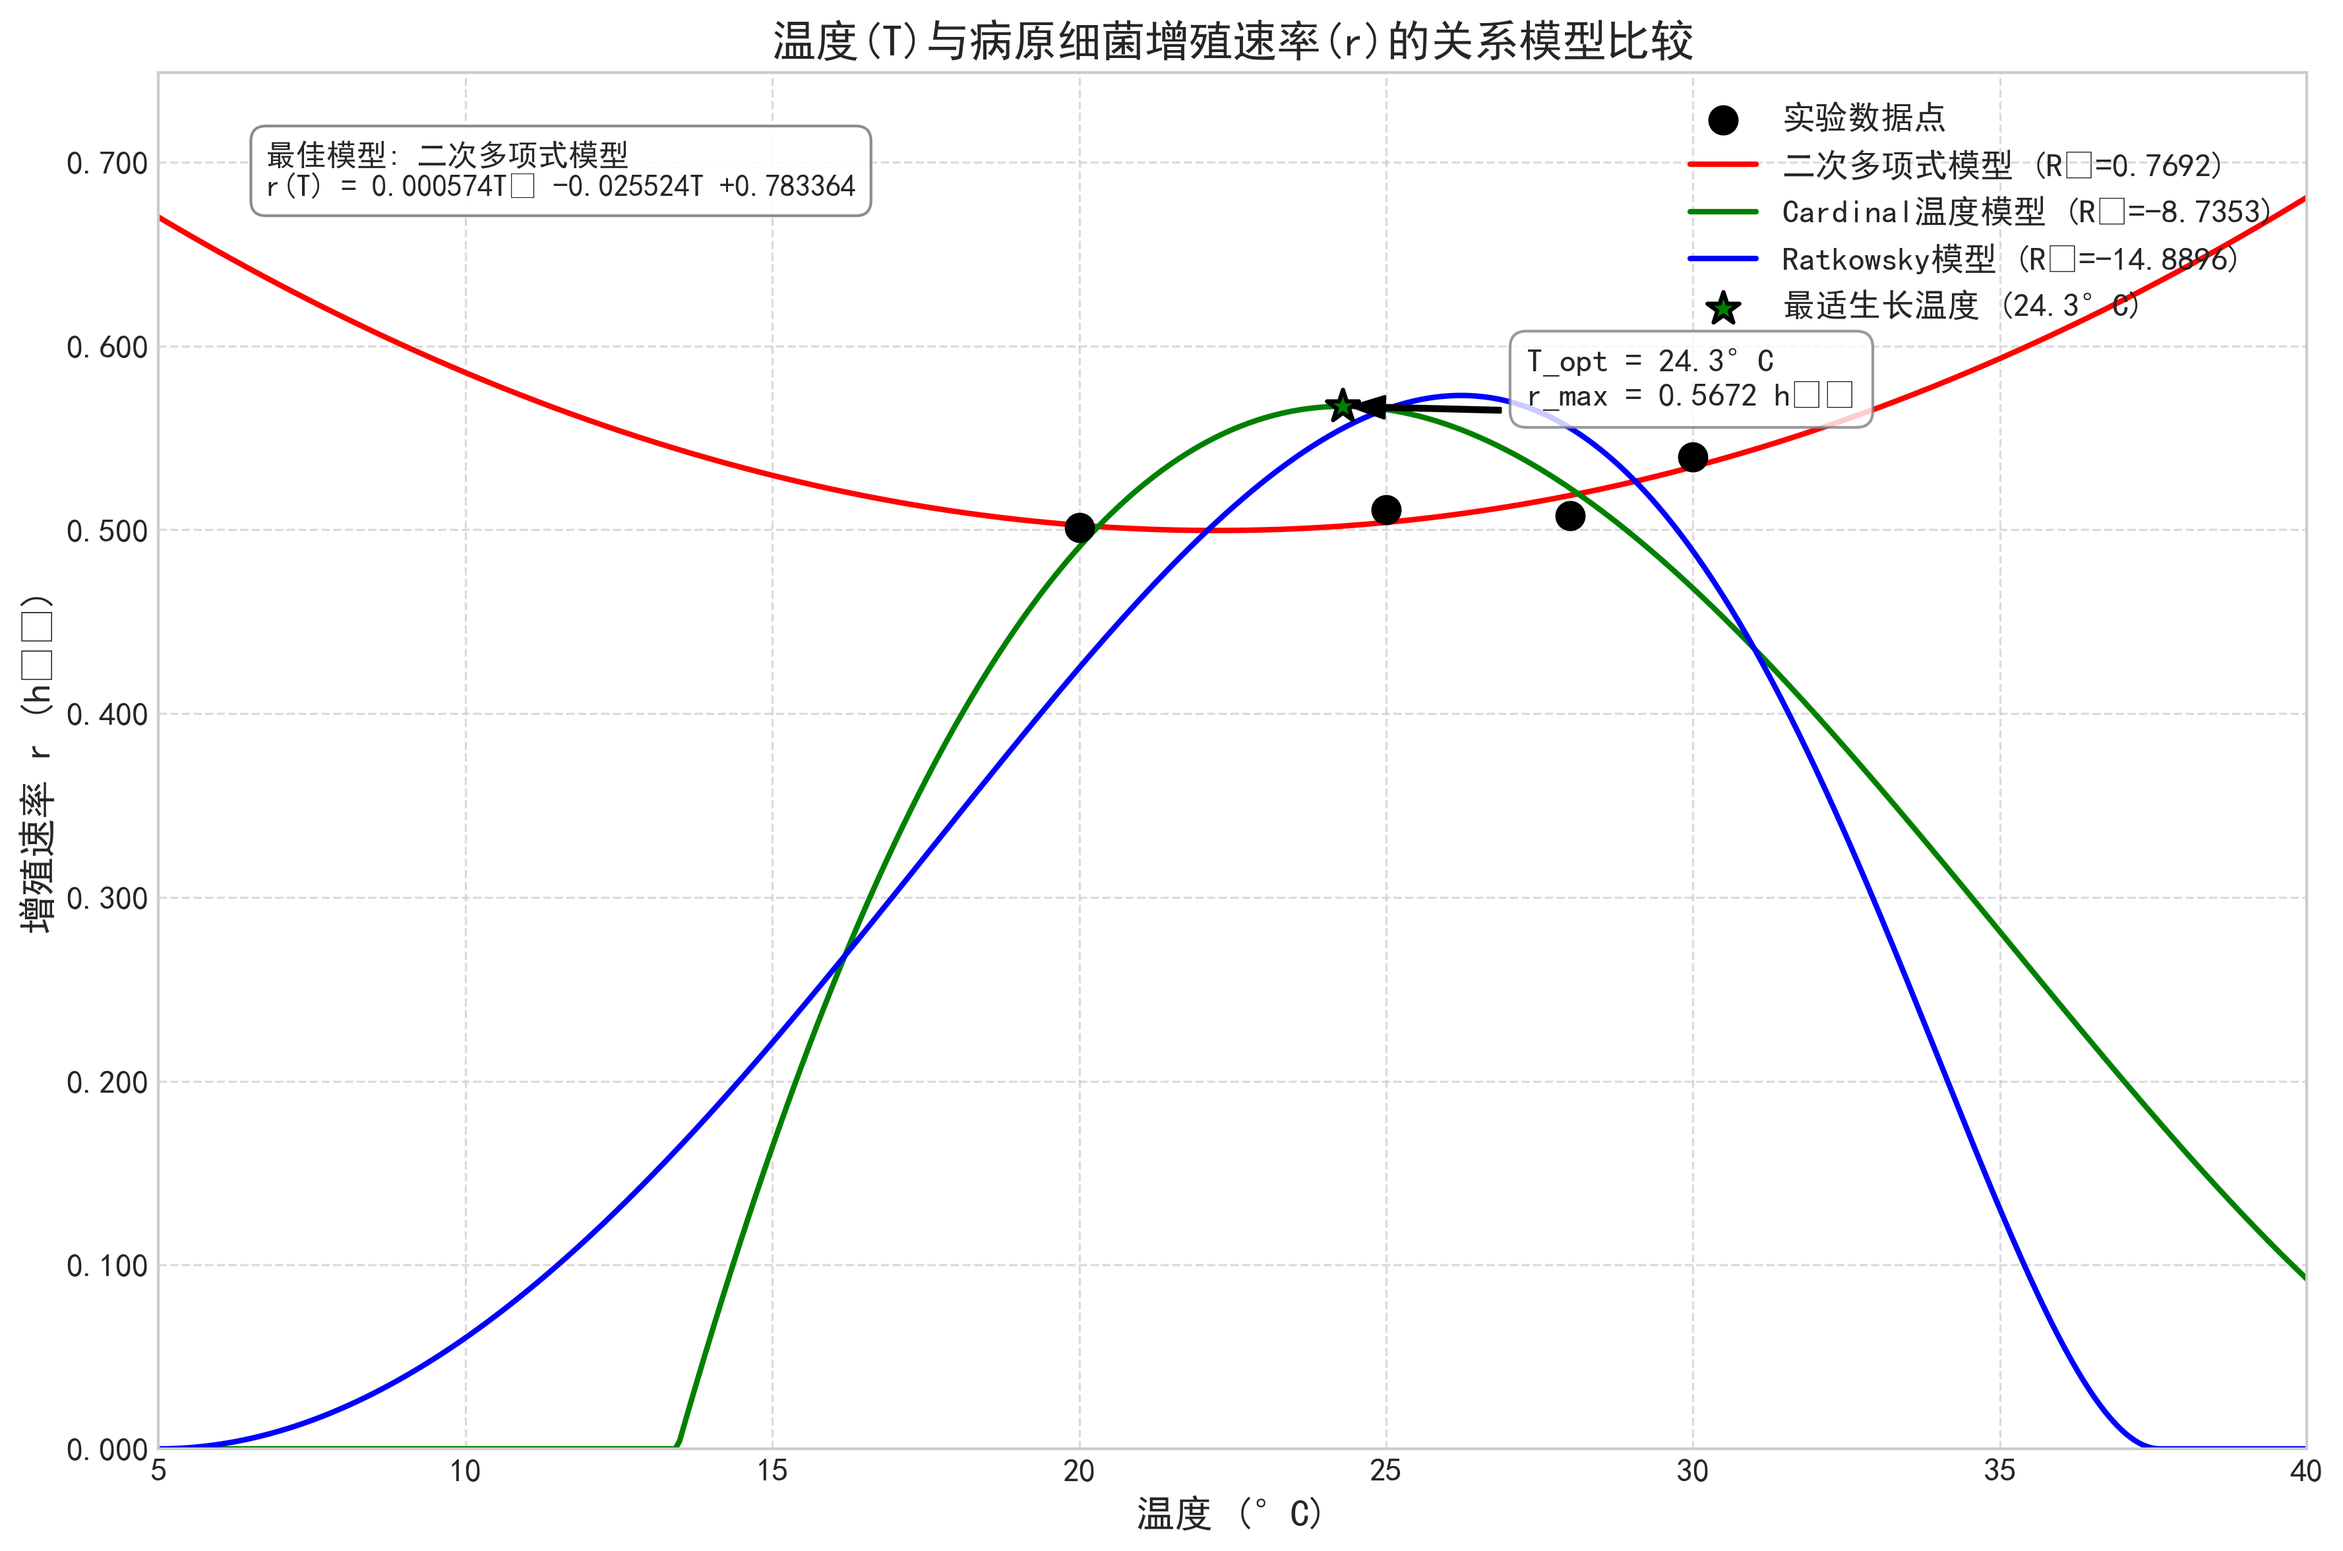
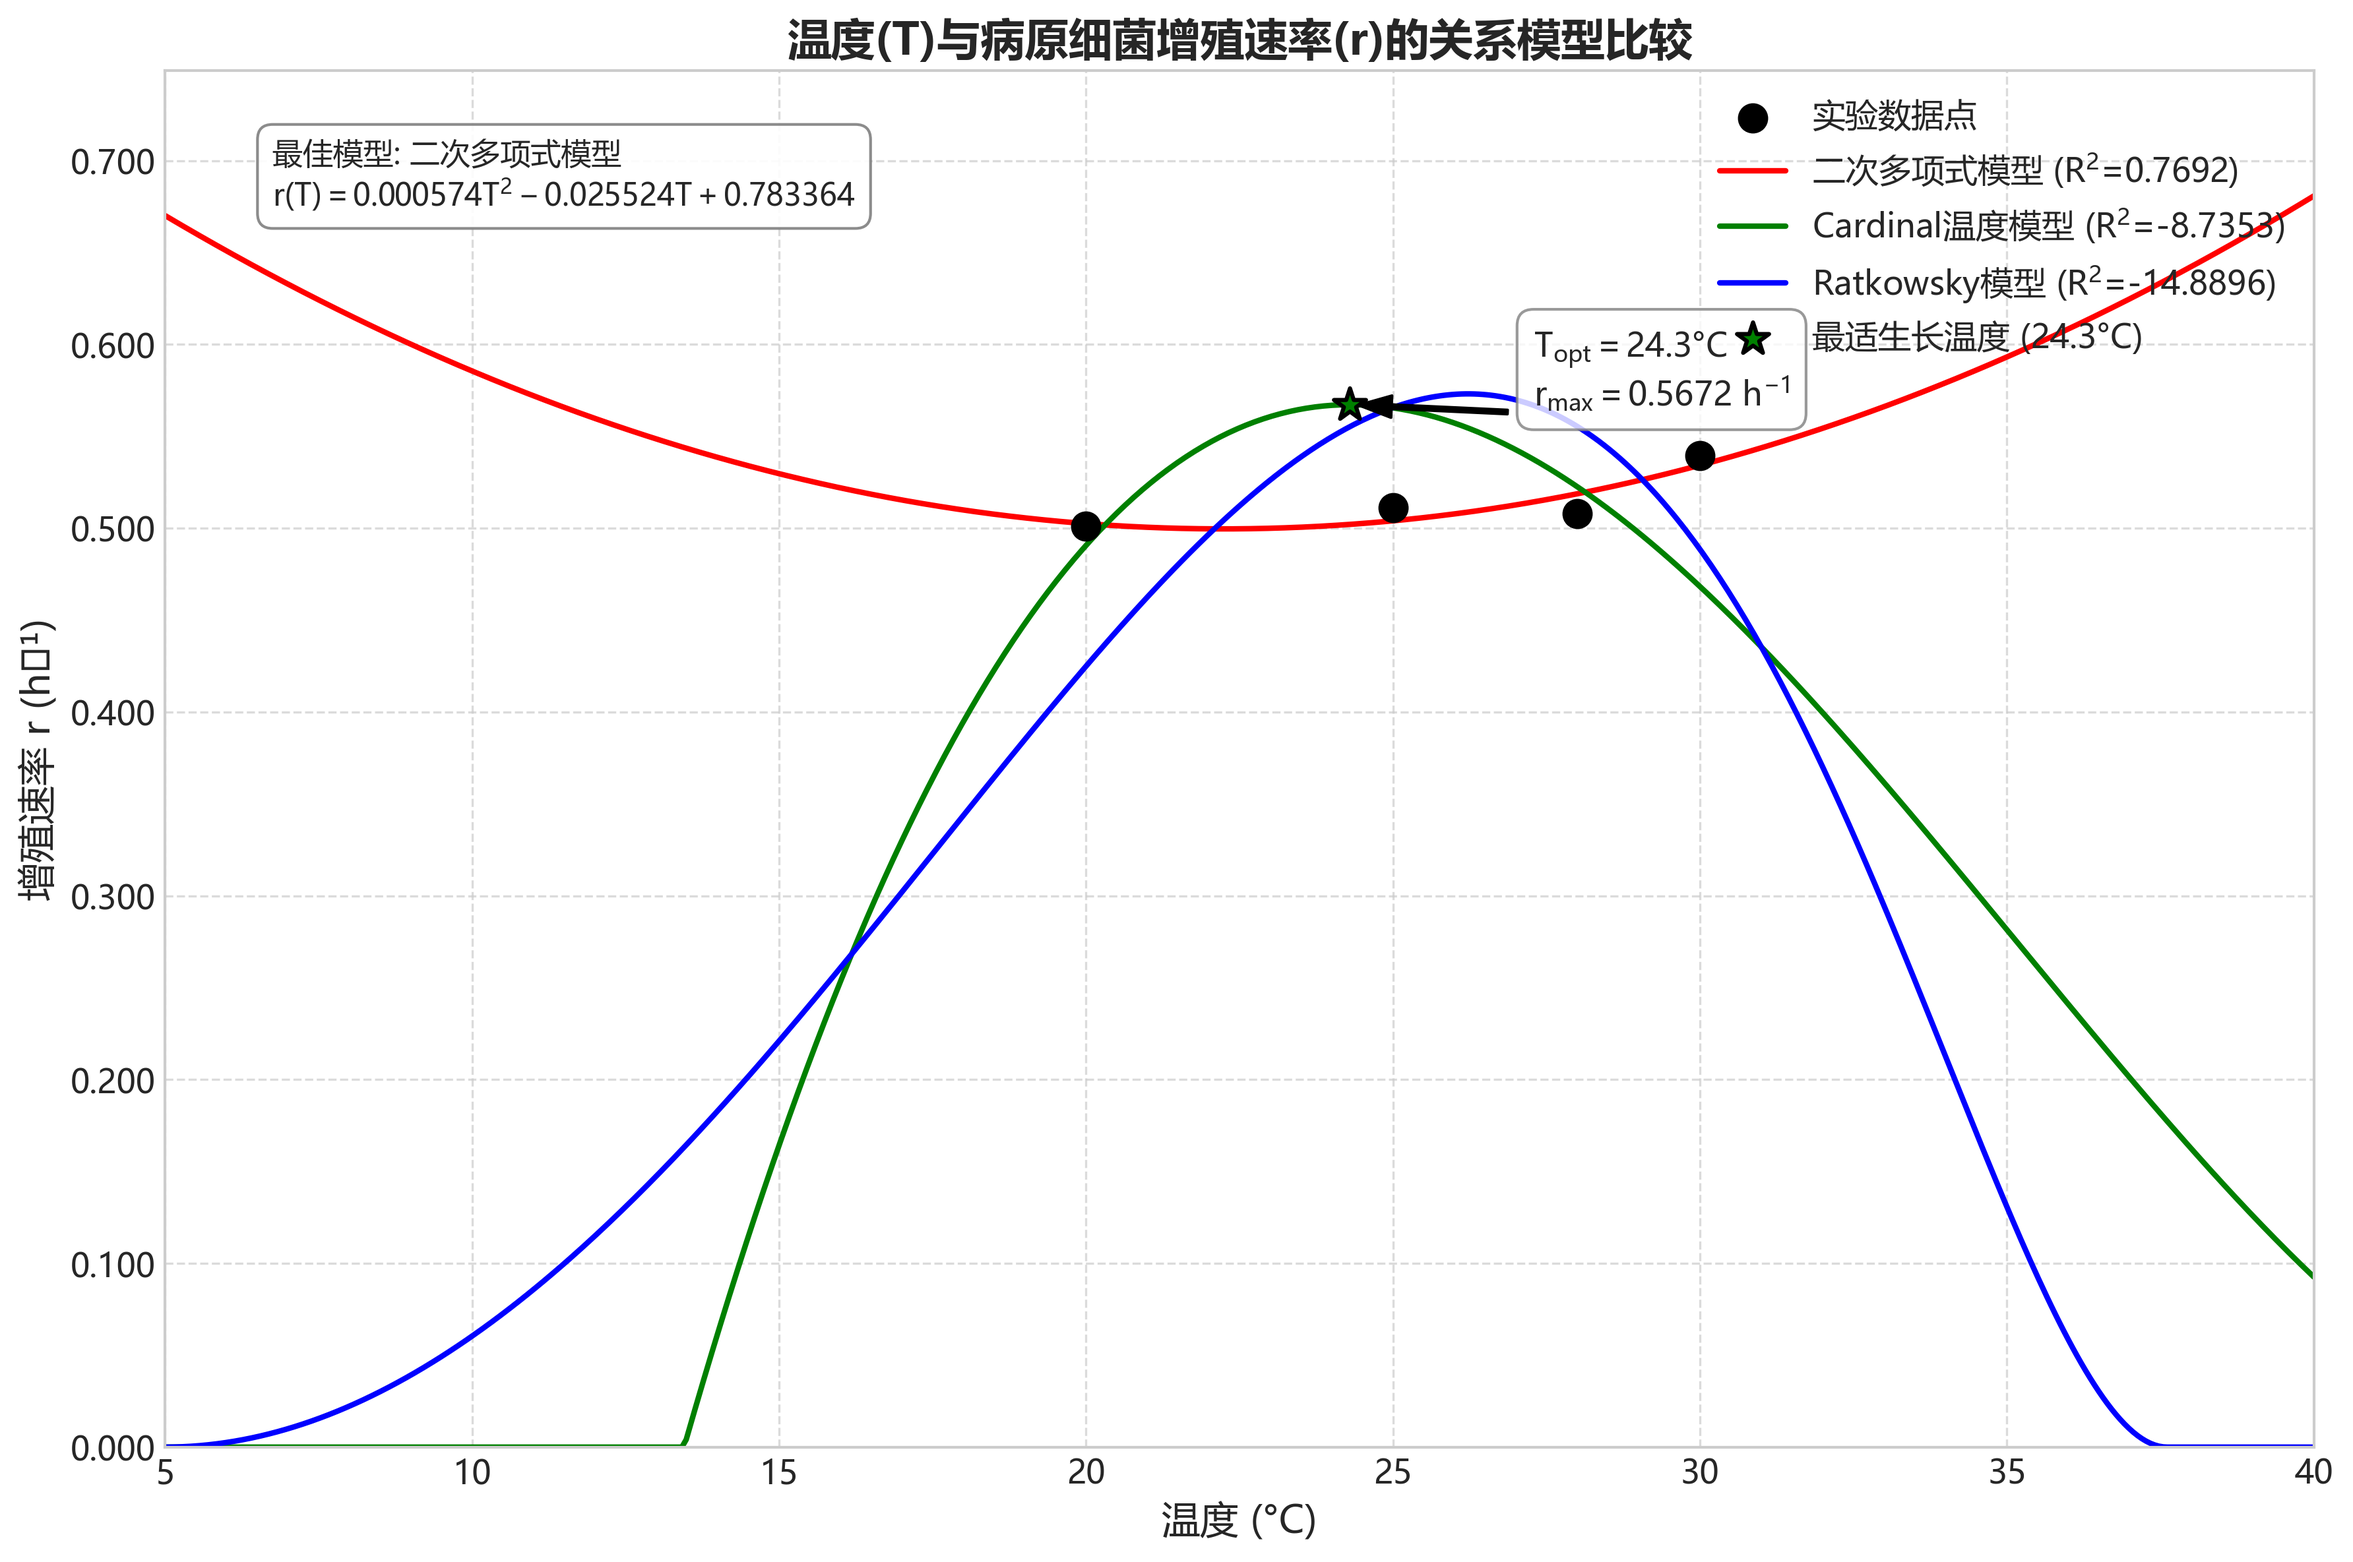
same

diff --git a/第一题第二问/bacterial_growth.py b/第一题第二问/bacterial_growth.py
@@ -386,11 +386,11 @@ ax.scatter(temps, growth_rates, color='black', s=100, marker='o',
 
 # 绘制模型曲线
 ax.plot(fine_temps, quadratic_rates, 'r-', linewidth=2, 
-       label=f'二次多项式模型 (R²={quadratic_r2:.4f})')
+       label=rf'二次多项式模型 ($R^2$={quadratic_r2:.4f})')
 ax.plot(fine_temps, cardinal_rates, 'g-', linewidth=2, 
-       label=f'Cardinal温度模型 (R²={cardinal_r2:.4f})')
+       label=rf'Cardinal温度模型 ($R^2$={cardinal_r2:.4f})')
 ax.plot(fine_temps, ratkowsky_rates, 'b-', linewidth=2, 
-       label=f'Ratkowsky模型 (R²={ratkowsky_r2:.4f})')
+       label=rf'Ratkowsky模型 ($R^2$={ratkowsky_r2:.4f})')
 
 # 突出显示最适生长温度
 try:
@@ -398,15 +398,20 @@ try:
     max_idx = np.argmax(cardinal_rates)
     max_temp = fine_temps[max_idx]
     max_rate = cardinal_rates[max_idx]
+    
+    # 使用星号标记最佳温度点
     ax.scatter([max_temp], [max_rate], color='green', s=150, marker='*', 
               edgecolor='black', linewidth=1.5, zorder=11,
-              label=f'最适生长温度 ({max_temp:.1f}°C)')
-    ax.annotate(f'T_opt = {max_temp:.1f}°C\nr_max = {max_rate:.4f} h⁻¹', 
+              label=rf'最适生长温度 ({max_temp:.1f}°C)')
+    
+    # 使用mathtext格式标注最适温度
+    annotation_text = rf'$T_{{opt}} = {max_temp:.1f}°C$' + '\n' + rf'$r_{{max}} = {max_rate:.4f}$ $h^{{-1}}$'
+    ax.annotate(annotation_text, 
                xy=(max_temp, max_rate), xytext=(max_temp+3, max_rate),
                arrowprops=dict(facecolor='black', shrink=0.05, width=1.5, headwidth=8),
                fontsize=12, bbox=dict(boxstyle="round,pad=0.5", fc="white", ec="gray", alpha=0.8))
-except:
-    print("无法确定Cardinal模型的最大值点")
+except Exception as e:
+    print(f"无法确定Cardinal模型的最大值点: {e}")
 
 # 标记有效温度范围
 if best_model == "Cardinal温度模型" or best_model == "Ratkowsky模型":
@@ -421,7 +426,7 @@ if best_model == "Cardinal温度模型" or best_model == "Ratkowsky模型":
 
 # 设置坐标轴标签和标题
 ax.set_xlabel('温度 (°C)', fontsize=14)
-ax.set_ylabel('增殖速率 r (h⁻¹)', fontsize=14)
+ax.set_ylabel(r'增殖速率 r ($h^{-1}$)', fontsize=14)
 ax.set_title('温度(T)与病原细菌增殖速率(r)的关系模型比较', fontsize=16, fontweight='bold')
 
 # 设置坐标轴范围和网格
@@ -438,33 +443,21 @@ ax.yaxis.set_major_formatter(mtick.FormatStrFormatter('%.3f'))
 
 # 最佳模型公式 - 修复公式渲染问题
 if best_model == "二次多项式模型":
-    # 避免使用数学符号，使用普通文本
-    if a >= 0:
-        sign_a = "+"
-    else:
-        sign_a = ""
-    if b >= 0:
-        sign_b = "+"
-    else:
-        sign_b = ""
-    if c >= 0:
-        sign_c = "+"
-    else:
-        sign_c = ""
+    # 处理系数符号，使正确显示加减符号
+    term_b = f"- {abs(b):.6f}T" if b < 0 else f"+ {b:.6f}T"
+    term_c = f"- {abs(c):.6f}" if c < 0 else f"+ {c:.6f}"
     
-    equation = f'r(T) = {a:.6f}T² {sign_b}{b:.6f}T {sign_c}{c:.6f}'
+    equation = rf'$r(T) = {a:.6f}T^2 {term_b} {term_c}$'
     ax.text(0.05, 0.95, f"最佳模型: {best_model}\n{equation}", 
            transform=ax.transAxes, fontsize=11, 
            verticalalignment='top',
            bbox=dict(facecolor='white', edgecolor='gray', alpha=0.9, boxstyle='round,pad=0.5'))
 
 elif best_model == "Cardinal温度模型":
-    # 使用简化的文本描述
     equation_text = (f'Cardinal温度模型\n'
-                    f'r_opt = {r_opt:.4f} h⁻¹\n'
-                    f'T_min = {T_min:.1f}°C\n'
-                    f'T_opt = {T_opt:.1f}°C\n'
-                    f'T_max = {T_max:.1f}°C')
+                    rf'$T_{{min}} = {T_min:.1f}°C$\n'
+                    rf'$T_{{opt}} = {T_opt:.1f}°C$\n'
+                    rf'$T_{{max}} = {T_max:.1f}°C$')
     ax.text(0.05, 0.95, f"最佳模型: {best_model}\n{equation_text}", 
            transform=ax.transAxes, fontsize=11,
            verticalalignment='top',
@@ -472,9 +465,9 @@ elif best_model == "Cardinal温度模型":
 
 else:  # Ratkowsky模型
     equation_text = (f'Ratkowsky模型\n'
-                    f'b = {b_rat:.6f}\n'
-                    f'T_min = {T_min_rat:.1f}°C\n'
-                    f'T_max = {T_max_rat:.1f}°C')
+                    rf'$b = {b_rat:.6f}$\n'
+                    rf'$T_{{min}} = {T_min_rat:.1f}°C$\n'
+                    rf'$T_{{max}} = {T_max_rat:.1f}°C$')
     ax.text(0.05, 0.95, f"最佳模型: {best_model}\n{equation_text}", 
            transform=ax.transAxes, fontsize=11,
            verticalalignment='top',
@@ -486,11 +479,16 @@ ax.set_ylabel('增殖速率 r (h⁻¹)', fontsize=14)
 # 优化布局
 plt.tight_layout()
 
-# 在main函数或适当位置添加中文文件名路径配置
+# --- 在绘制图表之前，确保完整的字体设置 ---
+
+# 重新定义中文文件名路径
 CHINESE_VISUALIZATION_PATHS = {
     'growth_rate_plot': 'outputs\\温度与细菌增殖速率关系图.png',
     'growth_curves': 'outputs\\不同温度下细菌生长曲线对比图.png'
 }
+
+# 确保字体设置生效
+setup_chinese_fonts()
 
 # 保存温度-增殖速率关系图
 plt.savefig(CHINESE_VISUALIZATION_PATHS['growth_rate_plot'], dpi=300, bbox_inches='tight')

diff --git a/第一题第三问/种群增长模型.py b/第一题第三问/种群增长模型.py
@@ -539,7 +539,7 @@ else:
             plt.plot(time_points, effective_growth_rates, 'r-', linewidth=2, label='有效增长率')
             
             plt.xlabel('时间 (h)', fontsize=14)
-            plt.ylabel('增长率 (h⁻¹)', fontsize=14)
+            plt.ylabel(r'增殖速率 r ($h^{-1}$)', fontsize=14)
             plt.title('细菌增长率随时间变化', fontsize=16, fontweight='bold')
             plt.grid(True, linestyle='--', alpha=0.7)
             plt.legend(fontsize=12)
